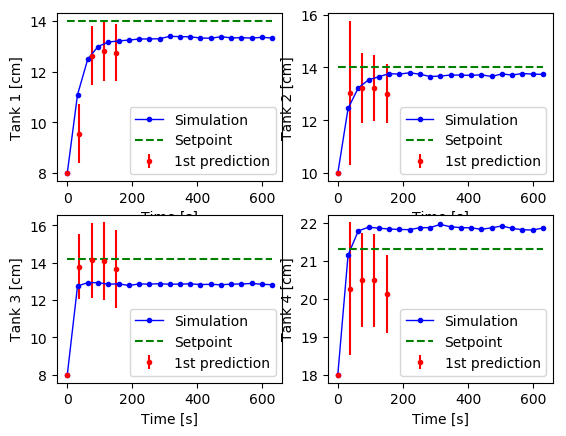
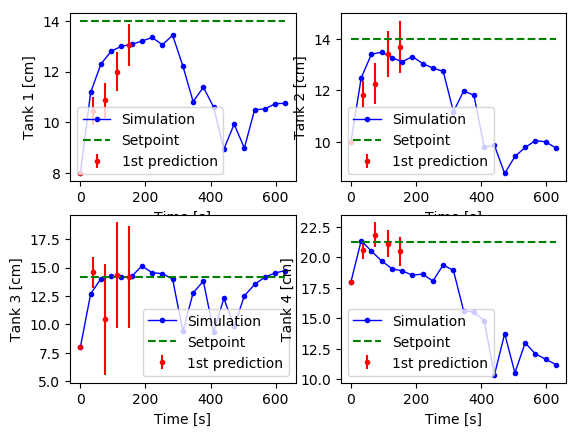
Fixed mean function

diff --git a/gp_casadi/gp_functions.py b/gp_casadi/gp_functions.py
@@ -18,17 +18,50 @@ def covSEard(x, z, ell, sf2):
     dist = ca.sum1((x - z)**2 / ell**2)
     return sf2 * ca.SX.exp(-.5 * dist)
 
-"""
+
+
+
+def get_mean_function(hyper, X, func='zero'):
+    """ Get mean function
                 'zero':       m = 0 
                 'const':      m = a
                 'linear':     m(x) = aT*x + b
                 'polynomial': m(x) = xT*diag(a)*x + bT*x + c
-"""
+    """
 
-def meanlinear(a, b, X):
-    return a * X + b
+    N, Nx = X.shape
+    X_s = ca.SX.sym('x', N, Nx)
+    Z_s = ca.MX.sym('x', N, Nx)
+    m = ca.SX(N, 1)
+    hyp_s = ca.SX.sym('hyper', hyper.shape)
+    if func == 'zero': 
+        a = ca.SX(1,1)
+        meanF = ca.Function('mean', [X_s, hyp_s], [a])
+    elif func == 'const':
+        a =  hyp_s[-1]
+        for i in range(N):
+            m[i] = a
+        meanF = ca.Function('mean', [X_s, hyp_s], [m])
+    elif func == 'linear':
+        a = hyp_s[-Nx-1:-1]
+        b = hyp_s[-1]
+        for i in range(N):
+            m[i] = ca.mtimes(a, X_s[i, :].T) + b
+        meanF = ca.Function('mean', [X_s, hyp_s], [m])
+    elif func == 'polynomial':
+        a = hyp_s[-2*Nx-1:-Nx-1]
+        b = hyp_s[-Nx-1:-1]
+        c = hyp_s[-1]
+        for i in range(N):
+            m[i] = ca.mtimes(a, X_s[i, :].T**2) + ca.mtimes(b, X_s[i, :].T) + c
+        meanF = ca.Function('mean', [X_s, hyp_s], [m])
+    else:
+        raise NameError('No mean function called: ' + func)
+    
+    return ca.Function('mean', [Z_s], [meanF(Z_s, hyper)])
 
-def gp(invK, X, Y, hyp, z,  meanFunc='zero'):
+
+def gp(invK, X, Y, hyper, z,  meanFunc='zero'):
     """ Gaussian Process
 
     # Arguments
@@ -37,7 +70,7 @@ def gp(invK, X, Y, hyp, z,  meanFunc='zero'):
         X: Training data matrix with inputs of size NxNx, with Nx number of
             inputs to the GP.
         Y: Training data matrix with outpyts of size (N x Ny).
-        hyp: Array with hyperparameters [ell_1 .. ell_Nx sf sn].
+        hyper: Array with hyperparameters [ell_1 .. ell_Nx sf sn].
         z: Input to the GP of size 1xD
 
     # Returns
@@ -60,52 +93,25 @@ def gp(invK, X, Y, hyp, z,  meanFunc='zero'):
                           [covSEard(x_s, z_s, ell_s, sf2_s)])
     
     for output in range(Ny):
-        if meanFunc == 'zero':
-            m = ca.MX(1,1)
-        elif meanFunc == 'const':
-            m =  hyp[output, -1]
-        elif meanFunc == 'linear':
-            print('Linear mean function')
-            a_s = ca.SX.sym('a', Nx)
-            b_s = ca.SX.sym('b')
-            X_s = ca.SX.sym('X', 1, Nx)
-            meanF = ca.Function('mean', [X_s, a_s, b_s], 
-                              [ca.sum2(ca.transpose(a_s * X_s.T)) + b_s])
-            a = hyp[output, -Nx-1:-1]
-            b = hyp[output, -1]
-            m = meanF(z, a, b)
-        elif meanFunc == 'polynomial':
-            a_s = ca.SX.sym('a', Nx)
-            b_s = ca.SX.sym('b', Nx)
-            c_s = ca.SX.sym('b')
-            X_s = ca.SX.sym('X', 1, Nx)
-            meanF = ca.Function('mean', [X_s, a_s, b_s, c_s], 
-                              [ca.sum2(ca.transpose(a_s * X_s.T**2)) + 
-                               ca.sum2(ca.transpose(b_s * X_s.T)) + c_s])
-            a = hyp[output, -2*Nx-1:-Nx-1]
-            b = hyp[output, -Nx-1:-1]
-            c = hyp[output, -1]
-            m = meanF(z, a, b, c)
-            
-        ell = ca.MX(hyp[output, 0:Nx])
-        sf2 = ca.MX(hyp[output, Nx]**2)
-        #m = hyp[a, D + 2]
+        m = get_mean_function(hyper[output, :], z, func=meanFunc)
+        ell = ca.MX(hyper[output, 0:Nx])
+        sf2 = ca.MX(hyper[output, Nx]**2)
         
         kss = covSE(z, z, ell, sf2)
-        
         ks = ca.MX.zeros(N, 1)
         for i in range(N):
             ks[i] = covSE(X[i, :], z, ell, sf2)
 
         ksK = ca.mtimes(ks.T, invK[output])
 
-        mean[output] = ca.mtimes(ksK, Y[:, output] - m) + m
+        mean[output] = ca.mtimes(ksK, Y[:, output] - m(z)) + m(z)
         var[output] = kss - ca.mtimes(ksK, ks)
 
     return mean, var
 
 
-def gp_taylor_approx(invK, X, Y, hyper, inputmean, inputvar, diag=False):
+def gp_taylor_approx(invK, X, Y, hyper, inputmean, inputvar,
+                     meanFunc='zero', diag=False):
     """ Gaussian Process with Taylor Approximation
 
     This uses a first order taylor for the mean evaluation (a normal GP mean),
@@ -149,8 +155,9 @@ def gp_taylor_approx(invK, X, Y, hyper, inputmean, inputvar, diag=False):
         ell = hyper[a, :Nx]
         w = 1 / ell**2
         sf2 = ca.MX(hyper[a, Nx]**2)
+        m = get_mean_function(hyper[a, :], inputmean, func=meanFunc)
         iK = ca.MX(invK[a])
-        alpha = ca.mtimes(iK, Y[:, a])
+        alpha = ca.mtimes(iK, Y[:, a] - m(inputmean)) + m(inputmean)
         kss = sf2
         
         ks = ca.MX.zeros(N, 1)

diff --git a/gp_casadi/optimize.py b/gp_casadi/optimize.py
@@ -16,7 +16,7 @@ import pyDOE
 import numpy as np
 import casadi as ca
 from scipy.spatial import distance
-
+from . gp_functions import get_mean_function
 
 # -----------------------------------------------------------------------------
 # Optimization of hyperperameters as a constrained minimization problem
@@ -40,33 +40,8 @@ def calc_NLL(hyper, X, Y, squaredist, meanFunc='zero'):
     ell = hyper[:Nx]
     sf2 = hyper[Nx]**2
     sn2 = hyper[Nx + 1]**2
-    
-    if meanFunc == 'zero':
-        dY = Y
-    elif meanFunc == 'const':
-        dY = Y - hyper[-1]
-    elif meanFunc == 'linear':
-        print('Linear mean function')
-        a_s = ca.SX.sym('a', Nx)
-        b_s = ca.SX.sym('b')
-        X_s = ca.SX.sym('X', N, Nx)
-        mean = ca.Function('mean', [X_s, a_s, b_s], 
-                          [ca.sum2(ca.transpose(a_s * X_s.T)) + b_s])
-        a = hyper[-Nx-1:-1]
-        b = hyper[-1]
-        dY = Y - mean(X, a, b)
-    elif meanFunc == 'polynomial':
-        a_s = ca.SX.sym('a', Nx)
-        b_s = ca.SX.sym('b', Nx)
-        c_s = ca.SX.sym('b')
-        X_s = ca.SX.sym('X', N, Nx)
-        mean = ca.Function('mean', [X_s, a_s, b_s, c_s], 
-                          [ca.sum2(ca.transpose(a_s * X_s.T**2)) +
-                          ca.sum2(ca.transpose(b_s * X_s.T)) + c_s])
-        a = hyper[-2*Nx-1:-Nx-1]
-        b = hyper[-Nx-1:-1]
-        c = hyper[-1]
-        dY = Y - mean(X, a, b, c)
+
+    m = get_mean_function(hyper, X, func=meanFunc)
 
     # Calculate covariance matrix
     K_s = ca.SX.sym('K_s',N, N)
@@ -96,7 +71,7 @@ def calc_NLL(hyper, X, Y, squaredist, meanFunc='zero'):
     Y_s = ca.SX.sym('Y', ca.MX.size(Y))
     L_s = ca.SX.sym('L', ca.Sparsity.lower(N))
     sol = ca.Function('sol', [L_s, Y_s], [ca.solve(L_s, Y_s)])
-    invLy = sol(L, dY)
+    invLy = sol(L, Y - m(X))
 
     invLy_s = ca.SX.sym('invLy', ca.MX.size(invLy))
     sol2 = ca.Function('sol2', [L_s, invLy_s], [ca.solve(L_s.T, invLy_s)])
@@ -105,7 +80,7 @@ def calc_NLL(hyper, X, Y, squaredist, meanFunc='zero'):
     alph = ca.SX.sym('alph', ca.MX.size(alpha))
     det = ca.SX.sym('det')
     NLL = ca.Function('NLL', [Y_s, alph, det], [0.5 * ca.mtimes(Y_s.T, alph) + 0.5 * det])
-    return NLL(dY, alpha, log_detK)
+    return NLL(Y - m(X), alpha, log_detK)
 
 
 def train_gp(X, Y, meanFunc='zero', hyper_init=None, multistart=1):
@@ -140,6 +115,8 @@ def train_gp(X, Y, meanFunc='zero', hyper_init=None, multistart=1):
         h_m = Nx + 1
     elif meanFunc == 'polynomial':
         h_m = 2 * Nx + 1
+    else:
+        raise NameError('No mean function called: ' + meanFunc)
     
     h_ell   = Nx    # Number of length scales parameters
     h_sf    = 1     # Standard deviation function
@@ -154,7 +131,8 @@ def train_gp(X, Y, meanFunc='zero', hyper_init=None, multistart=1):
     param_s      = ca.horzcat(squaredist_s, Y_s)
 
     NLL_func = ca.Function('NLL', [hyp_s, X_s, Y_s, squaredist_s],
-                           [calc_NLL(hyp_s, X_s, Y_s, squaredist_s)])
+                           [calc_NLL(hyp_s, X_s, Y_s, squaredist_s, 
+                                     meanFunc=meanFunc)])
     nlp = {'x': hyp_s, 'f': NLL_func(hyp_s, X, Y_s, squaredist_s), 'p': param_s}
     
     # NLP solver options
@@ -164,6 +142,7 @@ def train_gp(X, Y, meanFunc='zero', hyper_init=None, multistart=1):
     opts['verbose']             = False
     opts['ipopt.print_level']   = 0
     opts['ipopt.linear_solver'] = 'ma27'
+    opts['ipopt.max_cpu_time'] = 1
     #opts["ipopt.max_iter"]     = 100
     #opts["ipopt.tol"]          = 1e-12
     #opts["ipopt.hessian_approximation"] = "limited-memory"
@@ -195,10 +174,10 @@ def train_gp(X, Y, meanFunc='zero', hyper_init=None, multistart=1):
             ub[-h_m:-1] = 2
 
         if hyper_init is None:
-            hyp_init = pyDOE.lhs(num_hyp, samples=multistart)
+            hyp_init = pyDOE.lhs(num_hyp, samples=1).flatten()
             hyp_init = hyp_init * (ub - lb) + lb
         else:
-            hyp_init = hyper_init[output]
+            hyp_init = hyper_init[output, :]
 
         squaredist = np.zeros((N, N * Nx))
         for i in range(Nx):
@@ -211,10 +190,11 @@ def train_gp(X, Y, meanFunc='zero', hyper_init=None, multistart=1):
     
         for i in range(multistart):
             solve_time = -time.time()
-            res = res = Solver(x0=hyp_init[i, :], lbx=lb, ubx=ub, p=param)
+            res = res = Solver(x0=hyp_init, lbx=lb, ubx=ub, p=param)
             status = Solver.stats()['return_status']
             obj[i] = res['f']
             hyp_opt_loc[i, :] = res['x']
+            hyp_init = res['x']
             solve_time += time.time()
             print("\t%d: %s - %f s" % (i, status, solve_time))
 

diff --git a/gp_casadi/mpc.py b/gp_casadi/mpc.py
@@ -57,7 +57,8 @@ def cost_l(x, x_ref, covar_x, u, Q, R, K, s=1):
 
 
 def mpc(X, Y, x0, x_sp, invK, hyper, horizon, sim_time, dt, 
-        ulb=None, uub=None, xlb=None, xub=None, method='TA', plot=False):
+        ulb=None, uub=None, xlb=None, xub=None, terminal_constraint = None,
+        feedback=False, method='TA', plot=False, meanFunc='zero'):
     """ Model Predictive Control
     
     # Arguments:
@@ -97,14 +98,7 @@ def mpc(X, Y, x0, x_sp, invK, hyper, horizon, sim_time, dt,
     #K = np.zeros((Nu, Ny)) # * .5
     K = np.array([[1.8, .0, .5, .0], 
                   [.0, 1.8, .0, .5]]) * 0.0
-
     
-#    ulb = [0., 0.]
-#    uub = [60., 60.] 
-#    xlb = [0, 0, 0, 0]
-#    xub = [28, 28, 28, 28]
-    #terminal_constraint = 1e3
-    terminal_constraint = None
     # Initial state
     mean_0 = x0 #np.array([8., 10., 8., 18.])
     mean_ref = x_sp #np.array([14., 14., 14.2, 21.3])
@@ -118,20 +112,26 @@ def mpc(X, Y, x0, x_sp, invK, hyper, horizon, sim_time, dt,
     
     if method is 'ME':
         gp_func = ca.Function('gp_mean', [z_s, variance_s], 
-                            gp(invK, ca.MX(X), ca.MX(Y), ca.MX(hyper), z_s.T, meanFunc='zero'))
+                            gp(invK, ca.MX(X), ca.MX(Y), ca.MX(hyper), 
+                               z_s.T, meanFunc=meanFunc))
     elif method is 'TA':
         gp_func = ca.Function('gp_taylor_approx', [z_s, variance_s],
                             gp_taylor_approx(invK, ca.MX(X), ca.MX(Y), 
-                                             ca.MX(hyper), z_s.T, variance_s, diag=True))
+                                             ca.MX(hyper), z_s.T, variance_s, 
+                                             meanFunc=meanFunc, diag=True))
 
     # Define stage cost and terminal cost
     l_func = ca.Function('l', [mean_s, covar_x_s, v_s], 
-                           [cost_l(mean_s, ca.MX(mean_ref), covar_x_s, v_s, ca.MX(Q), ca.MX(R), ca.MX(K))])
+                           [cost_l(mean_s, ca.MX(mean_ref), covar_x_s, v_s, 
+                                   ca.MX(Q), ca.MX(R), ca.MX(K))])
     lf_func = ca.Function('lf', [mean_s, covar_x_s], 
                            [cost_lf(mean_s, ca.MX(mean_ref), covar_x_s,  ca.MX(P))])
     # Feedback function
-    #u_func = ca.Function('u', [mean_s, v_s], [ca.mtimes(ca.MX(K), mean_s - ca.MX(mean_ref)) + v_s])
-    u_func = ca.Function('u', [mean_s, v_s], [v_s])
+    if feedback:
+        u_func = ca.Function('u', [mean_s, v_s], [ca.mtimes(ca.MX(K),
+                             mean_s - ca.MX(mean_ref)) + v_s])
+    else:
+        u_func = ca.Function('u', [mean_s, v_s], [v_s])
     # Create variables struct
     var = ctools.struct_symMX([(
             ctools.entry('mean', shape=(Ny,), repeat=Nt + 1),
@@ -146,9 +146,13 @@ def mpc(X, Y, x0, x_sp, invK, hyper, horizon, sim_time, dt,
     # Adjust the relevant constraints
     for t in range(Nt):
         if ulb is not None:
-            varlb['v', t, :] = ulb # - np.dot(K, xub)
+            varlb['v', t, :] = ulb
+            if feedback:
+                varlb['v', t, :] = ulb - np.dot(K, xub)
         if uub is not None:
-            varub['v', t, :] = uub #- np.dot(K, xlb)
+            varub['v', t, :] = uub
+            if feedback:
+                varub['v', t, :] = uub - np.dot(K, xlb)
         if xlb is not None:
             varlb['mean', t, :] = xlb
         if xub is not None:

diff --git a/prediction.py b/prediction.py
@@ -217,19 +217,11 @@ if __name__ == "__main__":
     Ny = Y.shape[1]  # Number of outputs
 
     invK = np.zeros((Ny, N, N))
-    h = 2
+    meanFunc = 'zero'
 
-    meanY = np.mean(Y, 0)
-    stdY = np.std(Y, 0)
-    #meanY = meanX[:E]
-    #stdY = meanX[:E]
-    stdU = np.std(X[:, Ny:], 0)
-    meanU = np.mean(X[:, Ny:], 0)
-    meanX = np.concatenate([meanY, meanU])
-    stdX = np.concatenate([stdY, stdU])
 
     if optimize:
-        hyper = train_gp(X, Y, meanFunc='zero')
+        hyper = train_gp(X, Y, meanFunc=meanFunc)
         for i in range(Ny):
             K = calc_cov_matrix(X, hyper[i, :Nx], hyper[i, Nx]**2)
             K = K + hyper[i, Nx + 1]**2 * np.eye(N)  # Add noise variance to diagonal
@@ -267,18 +259,19 @@ if __name__ == "__main__":
 #    xlb = np.log(xlb)
 #    xub = np.log(xub)
     #z = np.concatenate([x0, u])
-
-    for i in range(3):
+    x0_ = x0
+    for i in range(10):
         x, u = mpc(X, Y, x0, x_sp, invK, hyper, horizon=120.0, 
                           sim_time=60.0, dt=30, method='TA', plot=False,
-                          ulb=ulb, uub=uub, xlb=xlb, xub=xub)
+                          ulb=ulb, uub=uub, xlb=xlb, xub=xub,
+                          meanFunc=meanFunc)
         X = np.vstack((X, np.hstack((x[1:2], u[1:]))))
         Y = np.vstack((Y, x[2:]))
-        
+        x0_ = x
         # Train again
         N, Nx = X.shape  # Number of sampling points and inputs
         Ny = Y.shape[1]  # Number of outputs
-        hyper = train_gp(X, Y, meanFunc='zero')
+        hyper = train_gp(X, Y, meanFunc=meanFunc, hyper_init=hyper)
         invK = np.zeros((Ny, N, N))
         for i in range(Ny):
             K = calc_cov_matrix(X, hyper[i, :Nx], hyper[i, Nx]**2)
@@ -295,7 +288,8 @@ if __name__ == "__main__":
 
     x, u = mpc(X, Y, x0, x_sp, invK, hyper, horizon=120.0, 
           sim_time=600.0, dt=30, method='TA', plot=True,
-          ulb=ulb, uub=uub, xlb=xlb, xub=xub)
+          ulb=ulb, uub=uub, xlb=xlb, xub=xub,
+          meanFunc=meanFunc, terminal_constraint=1e-1)
     #mean, u_mpc = mpc(X, Y, invK, hyper, method='ME')
     #mu, var  = predict_casadi(X, Y, invK, hyper, x0, u_mpc)
     #mu2, var2  = predict(X, Y, invK, hyper, x0, u)

diff --git a/simulation/four_tank.py b/simulation/four_tank.py
@@ -26,7 +26,7 @@ simTime = 300                           # Simulation time in seconds
 
 
 # Regression data
-npoints = 2                          # Number of data points generated
+npoints = 10                          # Number of data points generated
 u_min = np.array([0., 0.])             # lower bound of control inputs [ml/s]
 u_max = np.array([60., 60.])           # upper bound of control inputs [ml/s]
 x_min = np.array([0., 0., 0., 0.])     # lower bound of expected minimum state [cm]
